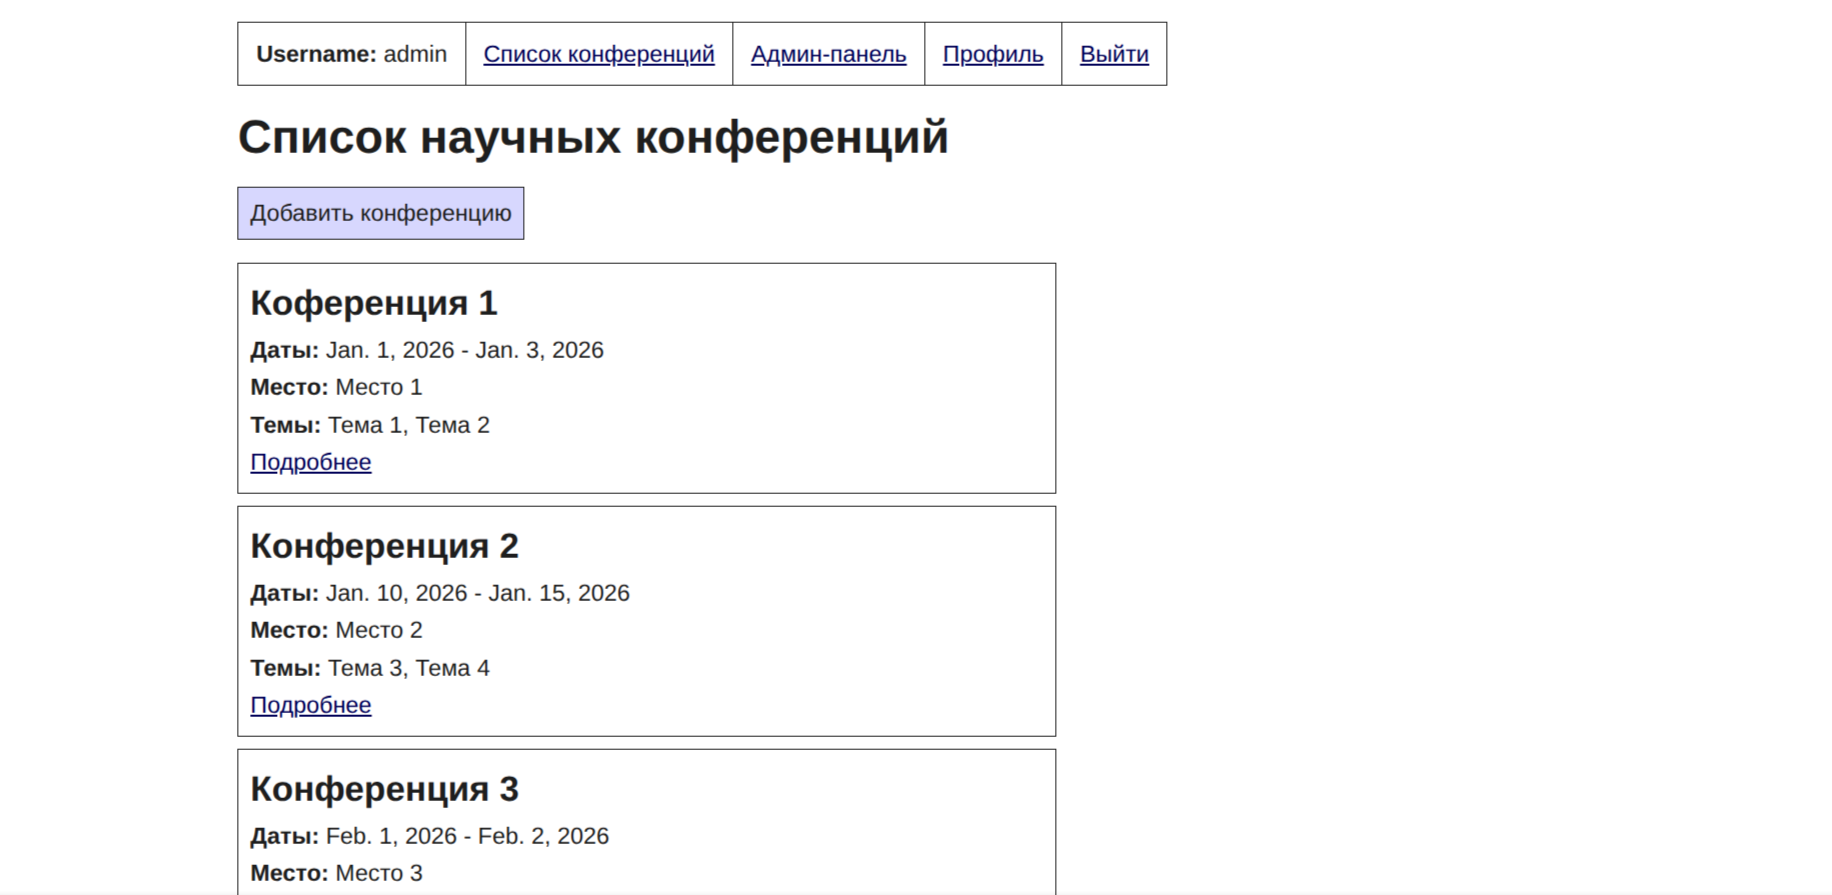
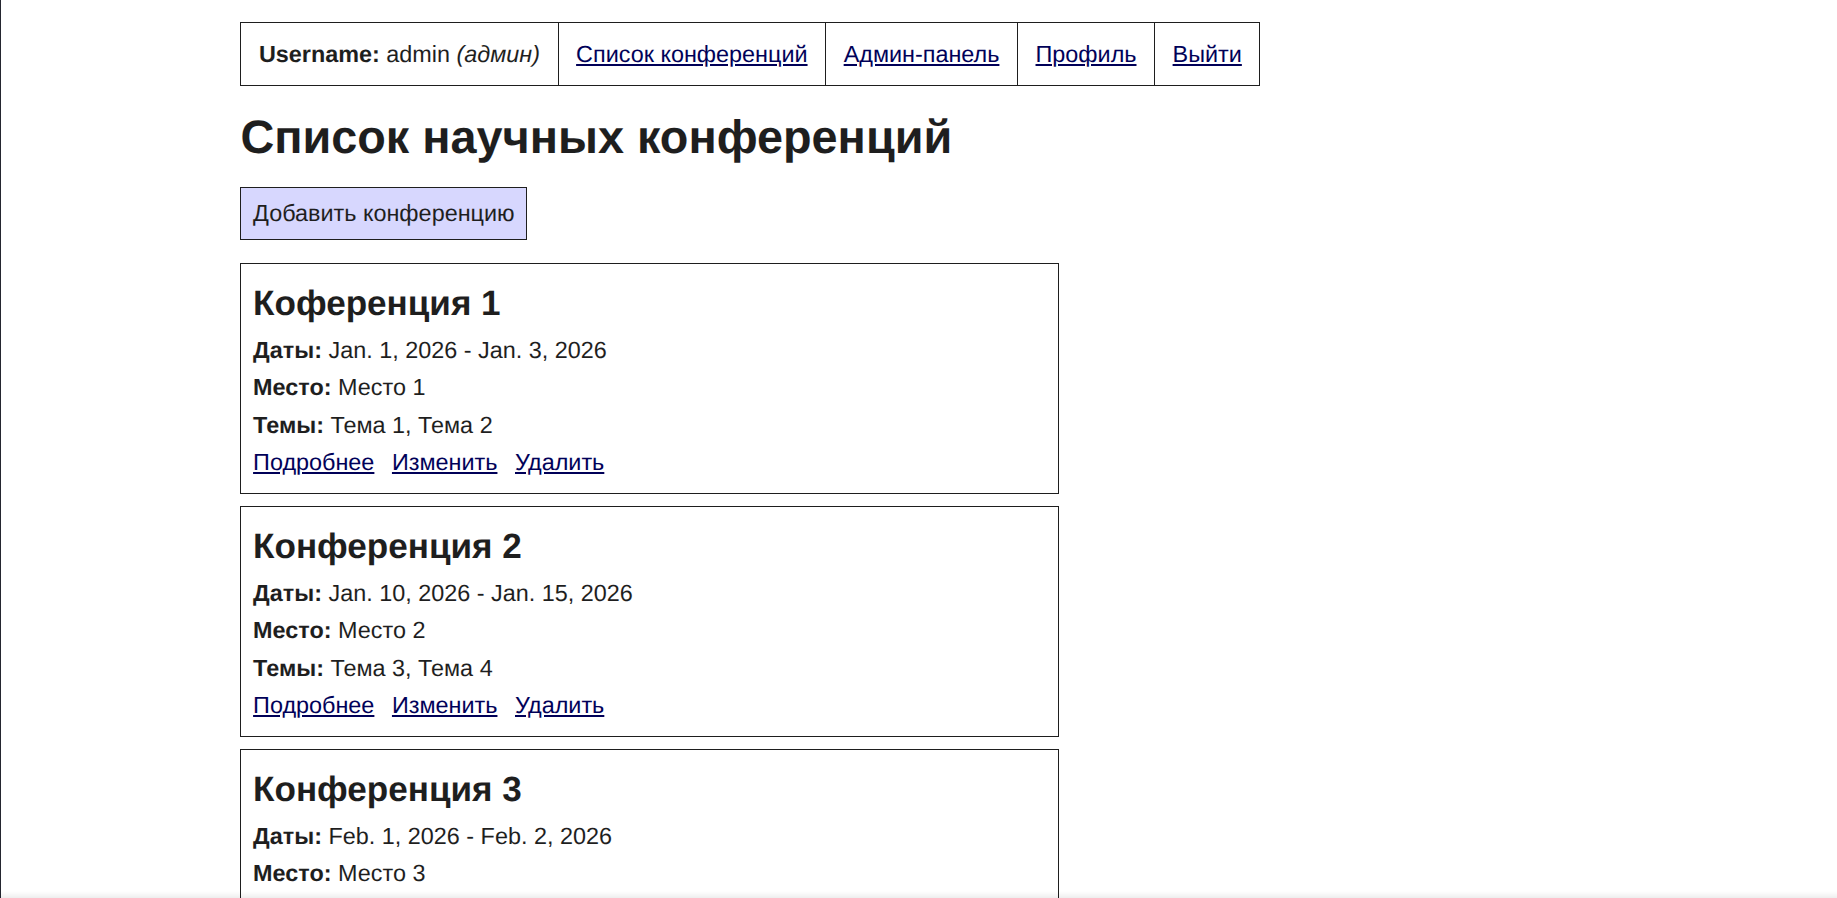
Работа над отчётом

diff --git a/docs/lab_2/lw.md b/docs/lab_2/lw.md
@@ -117,10 +117,14 @@ urlpatterns = [
 
     <h1 class="mt-20">Список научных конференций</h1>
 
-    <a class="blue-button mt-20 mb-20" href="">Добавить конференцию</a>
+    {% if user.is_superuser %}
+    <a class="blue-button mt-20" href="{% url 'add_conference' %}">
+        Добавить конференцию
+    </a>
+    {% endif %}
 
     <!-- Список конференций -->
-    <div class="conferences-list">
+    <div class="conferences-list mt-20">
         {% for conference in conferences %}
 
         <!-- Карточка конференции -->
@@ -129,7 +133,13 @@ urlpatterns = [
             <p><strong>Даты:</strong> {{ conference.start_date }} - {{ conference.end_date }}</p>
             <p><strong>Место:</strong> {{ conference.venue_name }}</p>
             <p><strong>Темы:</strong> {{ conference.topics | default:"Не указаны" }}</p>
-            <a href="{% url 'conference_detail' conference.pk %}">Подробнее</a>
+            <div class="flex">
+                <a href="{% url 'conference_detail' conference.pk %}">Подробнее</a>
+                {% if user.is_superuser %}
+                <a href="{% url 'edit_conference' conference.pk %}">Изменить</a>
+                <a href="{% url 'delete_conference' conference.pk %}">Удалить</a>
+                {% endif %}
+            </div>
         </div>
         <br>
         {% empty %}
@@ -137,24 +147,7 @@ urlpatterns = [
         {% endfor %}
     </div>
 
-    <!-- Пагинация -->
-    {% if is_paginated %}
-    <div class="pagination mt-15">
-        {% if page_obj.has_previous %}
-        <a href="?page=1">Первая</a>
-        <a href="?page={{ page_obj.previous_page_number }}">Назад</a>
-        {% endif %}
-
-        <span class="current-page">
-            <strong>Страница {{ page_obj.number }} из {{ page_obj.paginator.num_pages }}</strong>
-        </span>
-
-        {% if page_obj.has_next %}
-            <a href="?page={{ page_obj.next_page_number }}">Вперёд</a>
-            <a href="?page={{ page_obj.paginator.num_pages }}">Последняя</a>
-        {% endif %}
-    </div>
-    {% endif %}
+    {% include "includes/pagination.html" with pagination_class="mt-15" %}
 </body>
 </html>
 ```
@@ -324,16 +317,148 @@ urlpatterns = [
 
 > Просмотр конференций и регистрацию авторов для выступлений. Пользователь должен иметь возможность редактирования и удаления своих регистраций.
 
+Просмотр конференций осуществляется через страницу со списком всех конференций и страницу с детальной информацией о конференции (эти страницы были разобраны выше).
 
+Рассмотрим механизм регистрации выступлений авторов на конференции:
 
+Для регистрации выступлений было реализовано следующее представление:
 
+```python title="scientific_conferences_list/conferences/views.py"
+class RegisterPresentationView(LoginRequiredMixin, CreateView):
+    model = Presentation
+    form_class = RegisterPresentationForm
+    template_name = 'conferences/presentations/register_presentation.html'
 
+    def get_context_data(self, **kwargs):
+        context = super().get_context_data(**kwargs)
+        conference = get_object_or_404(Conference, pk=self.kwargs['pk'])
+        context['conference'] = conference
+        return context
 
+    def form_valid(self, form):
+        conference = get_object_or_404(Conference, pk=self.kwargs['pk'])
+        presentation = form.save(commit=False)
+        presentation.author = self.request.user
+        presentation.conference = conference
+        presentation.save()
+        return super().form_valid(form)
 
+    def get_success_url(self):
+        return reverse_lazy('conference_detail', kwargs={'pk': self.kwargs['pk']})
+```
 
+Как можно заметить, данное представление дополнительно подгружает в контекст информацию о конференции, на которой должно быть зарегистрировано создаваемое выступление. Также после отправки формы к данным выступления добавляется автор, которым выступает пользователь, создавший выступление.
 
+Данное представление было зарегистрировано в URLs:
 
+```python title=""
+urlpatterns = [
+     path('<int:pk>/presentations/register',
+          RegisterPresentationView.as_view(), 
+          name='register_presentation'),
+]
+```
 
+Также был создан соответствующий HTML-шаблон:
 
+```html title="scientific_conferences_list/templates/conferences/presentations/register_presentation.html"
+{% load static %}
+<!DOCTYPE html>
+<html>
+<head>
+    <meta charset="utf-8">
+    <title>Регистрация своего выступления на конференции</title>
+    <link rel="stylesheet" type="text/css" href="{% static 'css/base.css' %}">
+</head>
+<body>
+    {% include "includes/top_menu.html" %}
 
+    <h1 class="mt-15">Регистрация своего выступления на конференции</h1>
 
+    <div class="card lh16 mt-15">
+        <p><strong>Конференция:</strong> {{ conference.name }}</p>
+        <p><strong>Даты:</strong> {{ conference.start_date }} - {{ conference.end_date }}</p>
+        <p><strong>Место:</strong> {{ conference.venue_name }}</p>
+    </div>
+
+    <br>
+    <form method="post" class="form mt-15">
+        {% csrf_token %}
+        {{ form.as_p }}
+        <div class="buttons">
+            <button type="submit">Зарегистрировать</button>
+            <a href="javascript:history.back()">Отмена</a>
+        </div>
+    </form>
+</body>
+</html>
+```
+
+В результате получилась следующая механика регистрации выступлений авторов на конференции:
+
+![5](../img/lab_2/lw/5.png)
+
+![6](../img/lab_2/lw/6.png)
+
+![7](../img/lab_2/lw/7.png)
+
+Для редактирования и удаления выступлений были реализованы следующие представления:
+
+```python title="scientific_conferences_list/conferences/views.py"
+class EditPresentationView(LoginRequiredMixin, UpdateView):
+    model = Presentation
+    fields = ['title', 'description']
+    template_name = 'conferences/presentations/edit_presentation.html'
+    context_object_name = 'presentation'
+
+    def get_object(self, queryset=None):
+        presentation = get_object_or_404(Presentation, pk=self.kwargs['presentation_id'])
+        if presentation.author != self.request.user:
+            raise PermissionDenied("Вы можете изменять только свои выступления")
+        return presentation
+    
+    def get_context_data(self, **kwargs):
+        context = super().get_context_data(**kwargs)
+        conference = get_object_or_404(Conference, pk=self.kwargs['conference_id'])
+        context['conference'] = conference
+        return context
+
+    def get_success_url(self):
+        return reverse_lazy('conference_detail', kwargs={'pk': self.kwargs['conference_id']})
+```
+
+```python title="scientific_conferences_list/conferences/views.py"
+class CancelPresentationView(LoginRequiredMixin, DeleteView):
+    model = Presentation
+    template_name = 'conferences/presentations/cancel_presentation.html'
+    context_object_name = 'presentation'
+
+    def get_object(self, queryset=None):
+        presentation = get_object_or_404(Presentation, pk=self.kwargs['presentation_id'])
+        if presentation.author != self.request.user:
+            raise PermissionDenied("Вы можете отменять только свои выступления")
+        return presentation
+
+    def get_context_data(self, **kwargs):
+        context = super().get_context_data(**kwargs)
+        conference = get_object_or_404(Conference, pk=self.kwargs['conference_id'])
+        context['conference'] = conference
+        return context
+    
+    def get_success_url(self):
+        return reverse_lazy('conference_detail', kwargs={'pk': self.kwargs['conference_id']})
+```
+
+Как можно заметить, в обоих представлениях проводится проверка на то, что с выступлением работает именно пользователь, создавший его. Если это не так, то выбрасывается ошибка `PermissionDenied`.
+
+В результате получились следующие механизмы редактирования и удаления выступлений:
+
+![8](../img/lab_2/lw/8.png)
+
+![9](../img/lab_2/lw/9.png)
+
+![10](../img/lab_2/lw/10.png)
+
+![11](../img/lab_2/lw/11.png)
+
+![12](../img/lab_2/lw/12.png)
